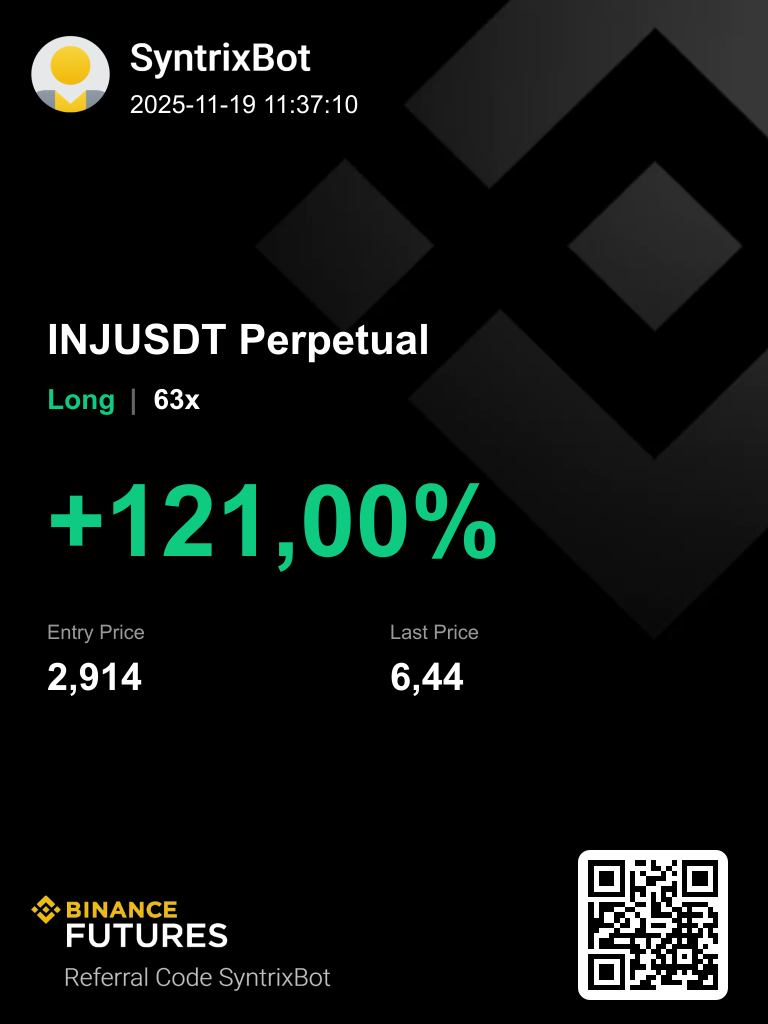
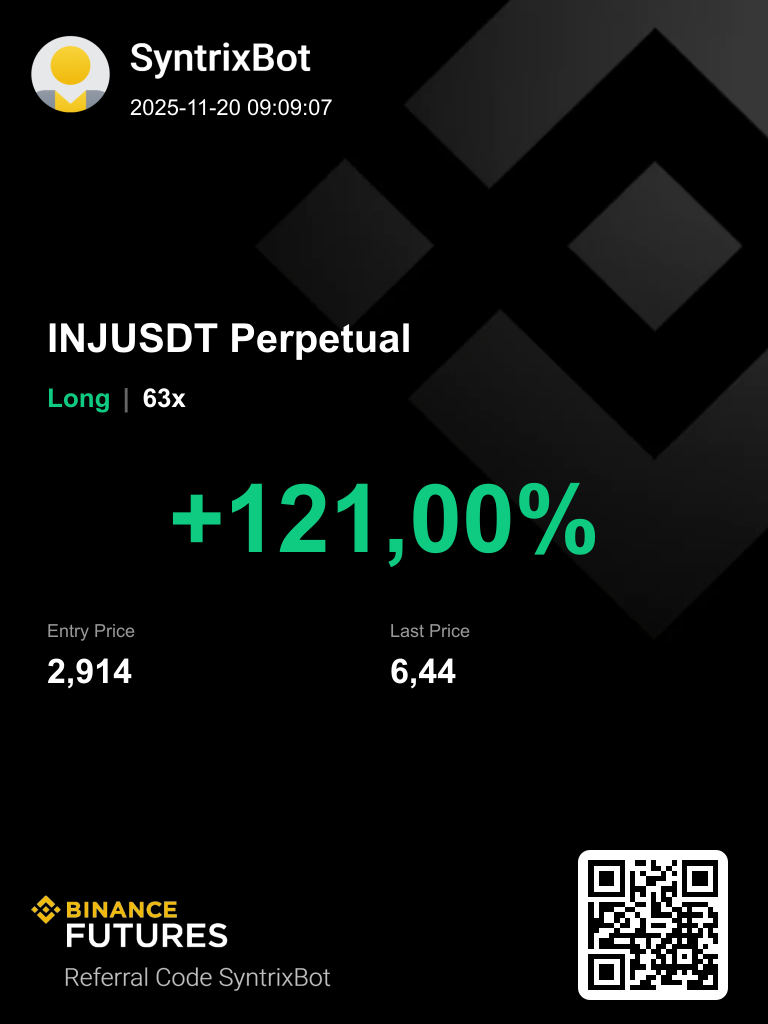
Fix trading card text rendering with proper positioning and fonts

diff --git a/telegram-bot/src/cardGenerator.ts b/telegram-bot/src/cardGenerator.ts
@@ -177,26 +177,25 @@ async function drawBackground(ctx: CanvasRenderingContext2D, width: number, heig
  * Draw header with avatar and bot info
  */
 function drawHeader(ctx: CanvasRenderingContext2D, data: TradingCardData, layout: any) {
-  // Avatar and bot name are already in the background image, only draw timestamp
-  // Draw timestamp below the "SyntrixBot" text on background - white color
+  // Draw timestamp (only time, not date) - background has static text
   ctx.fillStyle = '#ffffff'
-  ctx.font = '25px Arial'
+  ctx.font = '22px Arial'
   ctx.textAlign = 'left'
   ctx.textBaseline = 'top'
+  // Format as ISO datetime without T
   const timestamp = data.timestamp.toISOString().replace('T', ' ').substring(0, 19)
-  // Position timestamp below SyntrixBot text (around y=115-120)
-  ctx.fillText(timestamp, 130, 90)
+  ctx.fillText(timestamp, 130, 95)
 }
 
 /**
  * Draw trading pair name (centered)
  */
 function drawPairName(ctx: CanvasRenderingContext2D, pair: string, layout: any, width: number) {
-  // Remove slash from pair name (e.g., BTC/USDT -> BTCUSDT)
+  // Draw pair name without slash
   const pairWithoutSlash = pair.replace('/', '')
   
   ctx.fillStyle = '#ffffff'
-  ctx.font = 'bold 42px Arial'
+  ctx.font = 'bold 40px Arial'
   ctx.textAlign = 'left'
   ctx.textBaseline = 'top'
   ctx.fillText(`${pairWithoutSlash} Perpetual`, layout.marginLeft, layout.pairY)
@@ -211,7 +210,7 @@ function drawPositionBadge(ctx: CanvasRenderingContext2D, position: string, leve
   const isLong = position === 'Long'
   const accentColor = isLong ? '#0ecb81' : '#f6465d'
 
-  ctx.font = 'bold 28px Arial'
+  ctx.font = 'bold 26px Arial'
   ctx.textAlign = 'left'
   ctx.textBaseline = 'top'
   ctx.fillStyle = accentColor
@@ -220,10 +219,10 @@ function drawPositionBadge(ctx: CanvasRenderingContext2D, position: string, leve
   ctx.fillText(posText, x, y)
 
   ctx.fillStyle = '#666666'
-  ctx.fillText('|', x + textWidth + 14, y)
+  ctx.fillText('|', x + textWidth + 12, y)
 
   ctx.fillStyle = '#ffffff'
-  ctx.fillText(`${leverage}x`, x + textWidth + 38, y)
+  ctx.fillText(`${leverage}x`, x + textWidth + 32, y)
 }
 
 /**
@@ -232,10 +231,10 @@ function drawPositionBadge(ctx: CanvasRenderingContext2D, position: string, leve
 function drawProfit(ctx: CanvasRenderingContext2D, profit: number, layout: any, width: number) {
   const formattedProfit = `${profit >= 0 ? '+' : ''}${formatPercent(profit)}%`
   ctx.fillStyle = profit >= 0 ? '#0ecb81' : '#f6465d'
-  ctx.font = 'bold 100px Arial'
+  ctx.font = 'bold 95px Arial'
   ctx.textAlign = 'center'
   ctx.textBaseline = 'top'
-  ctx.fillText(formattedProfit, width / 2 - 110, layout.profitY)
+  ctx.fillText(formattedProfit, width / 2, layout.profitY)
 }
 
 /**
@@ -250,8 +249,8 @@ function drawPrices(
   const baseY = layout.priceBlockY
   const labelColor = '#999999'
   const valueColor = '#ffffff'
-  const labelFont = '20px Arial'
-  const valueFont = 'bold 38px Arial'
+  const labelFont = '18px Arial'
+  const valueFont = 'bold 34px Arial'
   const entryX = layout.marginLeft
   const lastPriceX = 390
 
@@ -264,7 +263,7 @@ function drawPrices(
 
   ctx.fillStyle = valueColor
   ctx.font = valueFont
-  ctx.fillText(formatPrice(entryPrice), entryX, baseY + 35)
+  ctx.fillText(formatPrice(entryPrice), entryX, baseY + 32)
 
   // Last Price
   ctx.fillStyle = labelColor
@@ -273,7 +272,7 @@ function drawPrices(
 
   ctx.fillStyle = valueColor
   ctx.font = valueFont
-  ctx.fillText(formatPrice(lastPrice), lastPriceX, baseY + 35)
+  ctx.fillText(formatPrice(lastPrice), lastPriceX, baseY + 32)
 }
 
 /**
